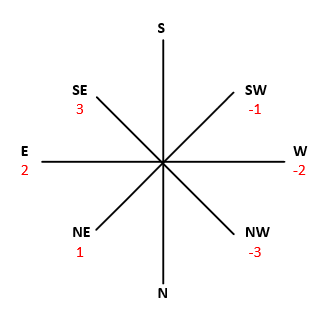
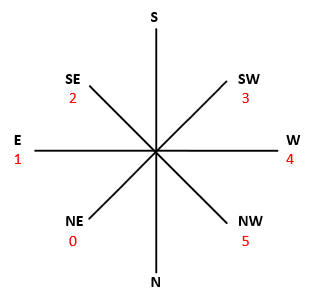
Updated the compass directions - Using -3 to +3 polluted the other values in the transmitted integer - Updated ball.h with the new compass directions - Updated media/compass.png with the new compass directions - Starts using the given system of receiving the ball's data at L58

diff --git a/ball.c b/ball.c
@@ -55,22 +55,18 @@ int8_t get_velocity(int8_t ball_values)
 void ball_receive(void)
 {
     if (ir_uart_read_ready_p()) {
-        // int8_t ball_values = ir_uart_getc();
+        int8_t ball_values = ir_uart_getc();
 
-        // ball.new_row = ball_values >> 5;
-        // ball.velocity = get_velocity(ball_values);
-        // ball.direction = get_direction(ball_values);
-        // have_ball = true;
-        ir_uart_getc();
+        ball.new_row = ball_values >> 5;
+        ball.velocity = get_velocity(ball_values);
+        ball.direction = get_direction(ball_values);
 
-        Ball new_ball = {.old_row = STARTING_OLD,
-                         .old_column = STARTING_OLD,
-                         .new_row = STARTING_ROW,
-                         .new_column = STARTING_COLUMN,
-                         .velocity = 2,
-                         //  .velocity = STARTING_VELOCITY,
-                         .direction = STARTING_DIRECTION};
-        ball = new_ball;
+        ball.old_row = STARTING_OLD;
+        ball.old_column = STARTING_OLD;
+        ball.new_row = STARTING_ROW;
+        ball.new_column = STARTING_COLUMN;
+        ball.velocity = 2;
+        // ball.direction = STARTING_DIRECTION;
 
         have_ball = true;
     }

diff --git a/ball.h b/ball.h
@@ -44,12 +44,12 @@
  * @brief Specifies the values for the various directions.
  */
 typedef enum direction_e {
-    NORTH_EAST = 1,
-    EAST = 2,
-    SOUTH_EAST = 3,
-    NORTH_WEST = -1,
-    WEST = -2,
-    SOUTH_WEST = -3
+    NORTH_EAST = 0,
+    EAST = 1,
+    SOUTH_EAST = 2,
+    SOUTH_WEST = 3,
+    WEST = 4,
+    NORTH_WEST = 5,
 } Direction;
 
 /**
